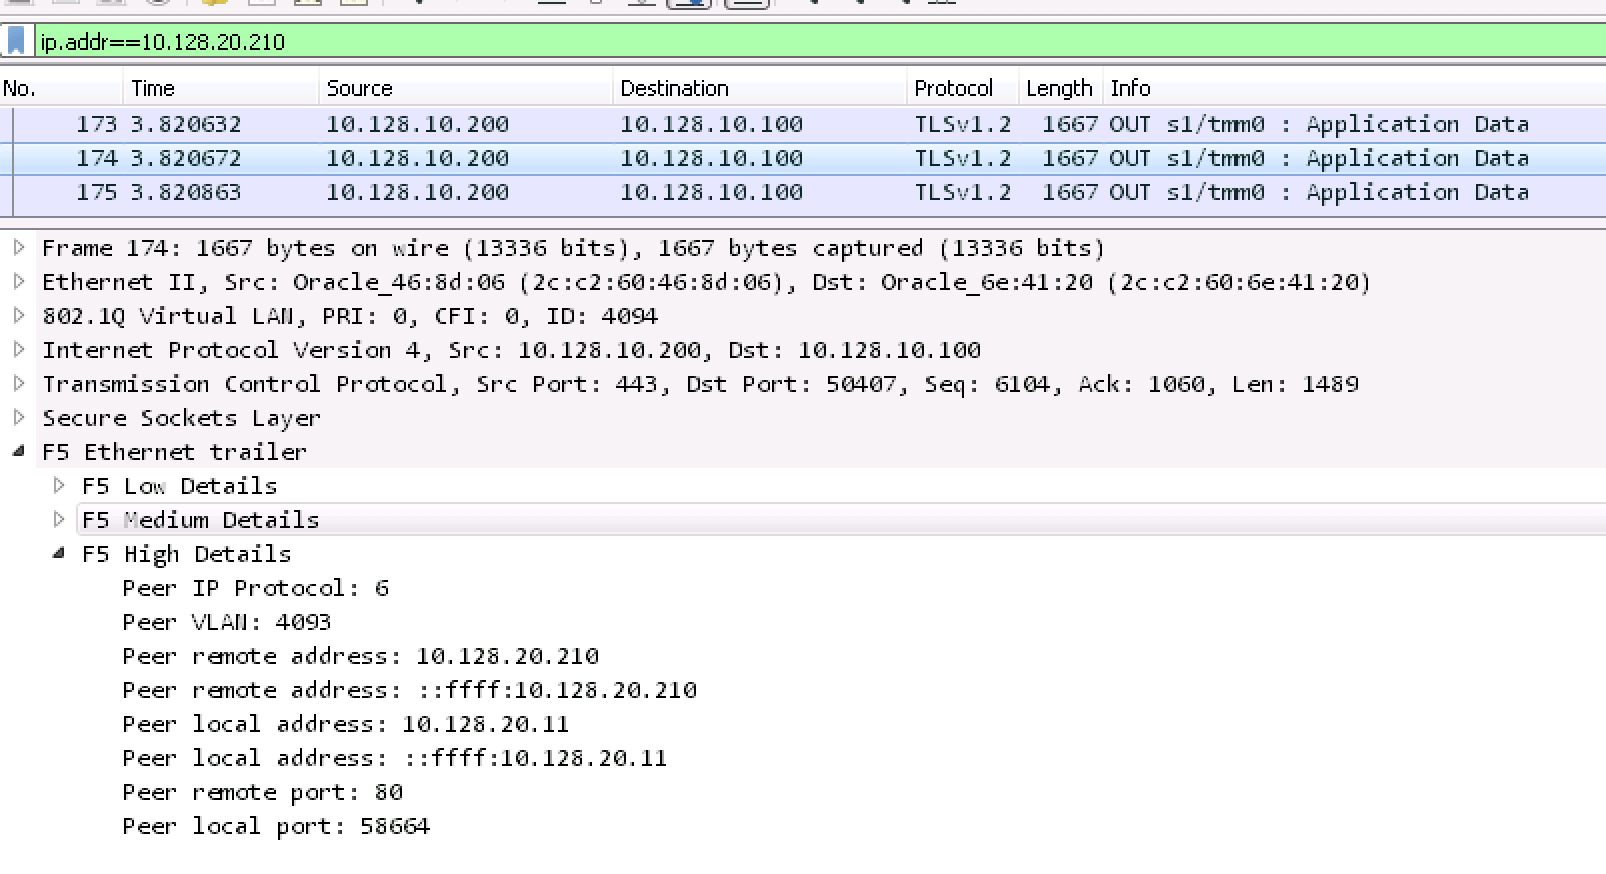
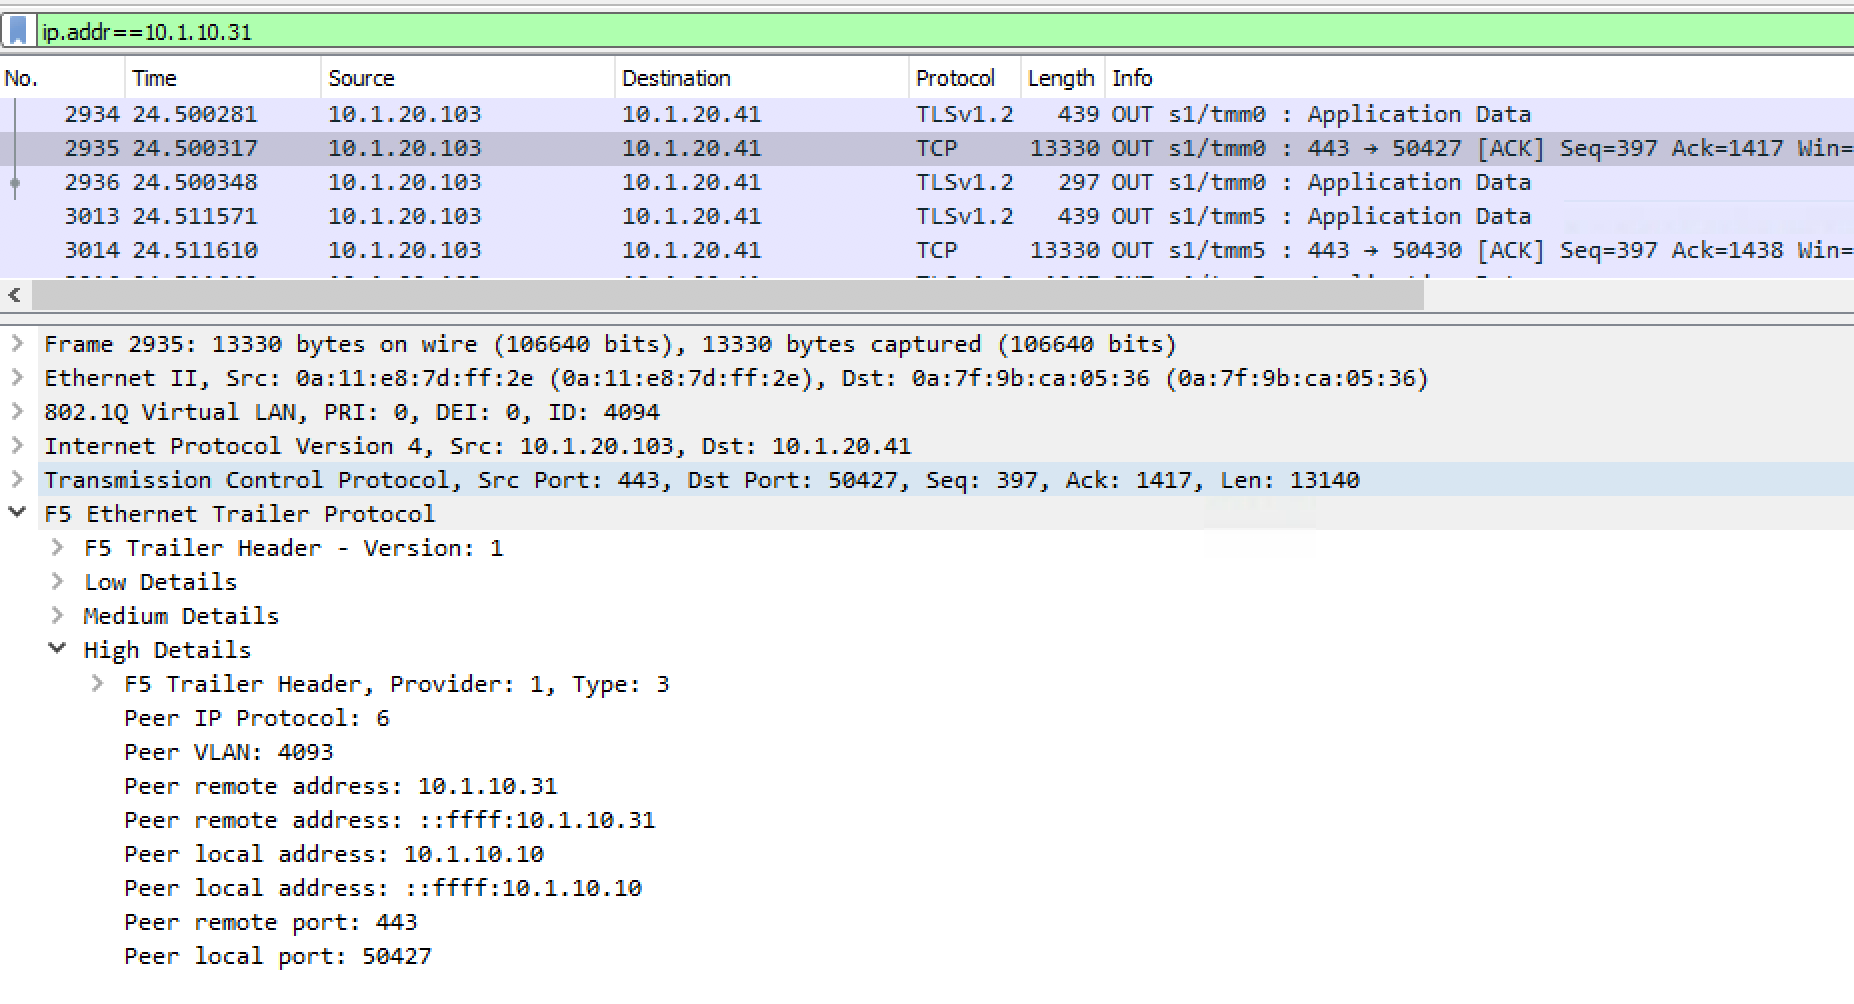
update for new blueprint

Changed region(s): [[0.0, 0.0, 1.0, 0.9577], [0.3113, 0.6796, 0.3425, 0.7105]]

diff --git a/class1/module1/module09.rst b/class1/module1/module09.rst
@@ -8,30 +8,30 @@ F5 High Details
 
 #. The F5 High Details contains a lot of valuable information.  In the example above we see that the Peer IP Protocol is 6 or TCP.
 
-#. The Peer VLAN is going to be the VLAN that the traffic enters the F5 from.  In the example this is VLAN 4093 which is the external VLAN.
+#. The Peer VLAN is going to be the VLAN that the traffic enters the F5 from.  In the example this is VLAN 4093 which is the internal VLAN.
 
-#. The Peer remote address for an Outbound packet will be the Application server IP address, if it were Inbound the address would be the Client Address.  The Peer Remote address will always be an address that is not on the BIG-IP directly, in this case 10.1.20.20. The second Peer remote address is the IPv6 version of the address.
+#. The Peer remote address for an Outbound packet will be the Application server IP address, if it were Inbound the address would be the Client Address.  The Peer Remote address will always be an address that is not on the BIG-IP directly, in this case 10.1.10.31. The second Peer remote address is the IPv6 version of the address.
 
-#. The Peer local address is the SNAT address for this particular Virtual Server, in this case 10.1.20.240.  Once again the IPv6 version is below that.
+#. The Peer local address is the SNAT address for this particular Virtual Server, in this case 10.1.10.10.  Once again the IPv6 version is below that.
 
-#. Next we see the Peer remote port.  The remote port is the port that the traffic is coming from on the remote side.  In this case the application server is responding from port 80.
+#. Next we see the Peer remote port.  The remote port is the port that the traffic is coming from on the remote side.  In this case the client is requesting to port 443.
 
-#. Next we have the Peer local port.  This is the port the F5 is talking with the remote side on.  In this case it is port 49925.  If this were a request coming from the client, the local port would be 443 as the Virtual Server is configured with port 443 and the remote port would be a port > 1024.
+#. Next we have the Peer local port.  This is the port the F5 is talking with the remote side on.  In this case it is port 50228.  If this were a request coming from the client, the local port would be 443 as the Virtual Server is configured with port 443 and the remote port would be a port > 1024.
 
 #. The F5 High Details provide great information on what pool member is selected on a particular conversation that you are tracking down.  This makes it possible to determine which server may be having issues in an application problem.
 
 High Details and Other Field Dissectors
 ~~~~~~~~~~~~~~~~~~~~~~~~~~~~~~~~~~~~~~~
 
-#. In order to see how the other field dissectors becomes useful, enter a display filter of 'ip.addr==10.1.20.240'.
+#. In order to see how the other field dissectors becomes useful, enter a display filter of 'ip.addr==10.1.10.31'.
 
-#. Notice that the Source and Destination fields in the results do not contain the ip address of 10.128.20.210 as shown in the image.  In the lab you won't see the IP 10.1.20.240 in the source or destination fields.
+#. Notice that the Source and Destination fields in the results do not contain the ip address of 10.1.10.31 as shown in the image.  In the lab you won't see the IP 10.1.10.31 in the source or destination fields.
 
    .. image:: /_static/disect-high.png
       :scale: 50 %
 
 #. Is the display filter broken?
 
-#. No it is not.  Notice in the F5 High Details that the Peer remote address is 10.128.20.210.  This is the pool member selected for the pool in the virtual server.  
+#. No it is not.  Notice in the F5 High Details that the Peer remote address is 10.1.10.31.  This is the pool member selected for the pool in the virtual server.  
 
 #. With the other field dissectors value turned on in Wireshark, you can set a display filter of the pool member you may be troubleshooting and see which virtual is being selected on the traffic.  Or you can set a display filter of the client and see all the traffic to the pool members even with a SNAT pool selected.

diff --git a/class1/module1/module03.rst b/class1/module1/module03.rst
@@ -3,11 +3,11 @@ F5 Specific tcpdump Switches
 
 This section is for informative value and nothing will be done in the lab environment.
 
-F5 has added some F5 specific switches to the tcpdump utility on the F5.  These switches give additional information on your packet captures.  These switches are places after the interface option in the command line as follows:
+F5 has added some F5 specific switches to the tcpdump utility on the F5.  These switches give additional information on your packet captures.  These switches are placed after the interface option in the command line as follows:
 
 #. :n gives low details
 
-    a. for example: **tcpdump -nni 0.0:n -s0 -w/var/tmp/capture.pcap**
+    a. for example: **tcpdump -nni 0.0:n -s0 -w /var/tmp/capture.pcap**
 
     b. This will give basic information such as whether the captured traffic is ingress or egress to the F5.  It will also give the TMM instance the traffic is on as well as the Chassis slot processing the traffic.  This option also lists the virtual server name that processes the traffic.
 
@@ -15,7 +15,7 @@ F5 has added some F5 specific switches to the tcpdump utility on the F5.  These 
 
 #. :nn gives medium details
 
-    a. for example: **tcpdump -nni 0.0:nn -s0 -w/var/tmp/capture.pcap**
+    a. for example: **tcpdump -nni 0.0:nn -s0 -w /var/tmp/capture.pcap**
 
     b. This option will give all the low detail information plus the following: 
 
@@ -32,7 +32,7 @@ F5 has added some F5 specific switches to the tcpdump utility on the F5.  These 
 
 #. :nnn gives high details
 
-    a. for example: **tcpdump -nni 0.0:nnn -s0 -w/var/tmp/capture.pcap**
+    a. for example: **tcpdump -nni 0.0:nnn -s0 -w /var/tmp/capture.pcap**
 
     b. This option will give all the low and medium details plus the following
 

diff --git a/class1/module1/module11.rst b/class1/module1/module11.rst
@@ -3,34 +3,26 @@ Decrypting SSL in Wireshark
 
 Now you need to have your pre-master key file and your capture moved to your local box.  To do this do the following:
 
-#. Open Terminal on the Ubuntu Jump Box.
+#. Open WinSCP on the Windows jumpbox and connect to Bigip01.
 
-#. Change directory to Documents by typing: 'cd Documents'.
+#. Change local directory to Documents.
 
-#. Run the following commands:
+#. Pull from the remote directory the session.pms and your pcap files.
 
-   .. code-block:: bash
-      :linenos:
-
-      sudo scp root@10.1.1.245:/var/tmp/session.pms ./
-      sudo scp root@10.1.1.245:/var/tmp/hackazon.pcap ./
-
-After each of these commands you will be prompted to accept the SSH keys.  Type yes to continue. Then you will be prompted for the F5 root password.  Type that in as well.
- 
 #. Now open Wireshark.  
 
 #. Once Wireshark is open go to Edit/Preferences.
 
-#. Expand on the left side, Protocols, then select SSL.
+#. Expand on the left side, Protocols, then select TLS.
 
    .. image:: /_static/premaster-session.png
       :height: 500px
 
 #. Browse to the pre-master session key file and click on save.
 
-#. Open in Wireshark the pcap file you pulled down from the F5 BIG-IP. 
+#. Open in Wireshark the hackazon-ssl.pcap file you pulled down from the F5 BIG-IP. 
 
-#. Right click on one of the SSL packets and select Follow, SSL Stream.
+#. Right click on one of the SSL packets and select Follow, TLS Stream.
 
    .. image:: /_static/follow-ssl-stream.png
       :height: 500px

diff --git a/class1/module1/module05.rst b/class1/module1/module05.rst
@@ -12,21 +12,19 @@ Let's take the information we have gathered so far and take a packet capture fro
    .. code-block:: bash
       :linenos:
 
-      tmsh list ltm virtual /Sample_04/A1/serviceMain
+      tmsh list ltm virtual /Sample_04/A1/serviceMain |grep destination
 
-#. Now take the destination address and compose a tcpdump command to track the traffic coming to this virtual server:
+#. Now take the destination IP address and compose a tcpdump command to track the traffic coming to this virtual server:
 
    .. code-block:: bash
       :linenos:
 
-      tcpdump -nni 0.0:nnn -s0 -w/var/tmp/hackazon.pcap host 10.1.20.103
+      tcpdump -nni 0.0:nnnp -s0 -w/var/tmp/hackazon.pcap host 10.1.20.103
 
 #. After starting the capture, start Chrome and click on the Hackazon bookmark.  Browse around the site following a couple links.  Next go to the address bar and type in: "https://hackazon.f5demo.com:8080".  Then stop the capture in the putty session by using 'Ctrl+c'.
 
 #. Open WinSCP on the Windows jumpbox.  Download the hackazon.pcap file to the local box.
 
-#. You may be prompted to save the SSH keys. Click yes.
-
 #. Now open Wireshark and open the hackazon.pcap file you just copied from the F5.
 
-#. If you run into issues copying the hackazon.pcap file to the jumpbox you can use the already created file in the Downloads folder hackazon2.pcap.
+#. If you run into issues copying the hackazon.pcap file to the jumpbox you can use the already created file in the My Documents folder hackazon2.pcap.

diff --git a/class1/module1/module06.rst b/class1/module1/module06.rst
@@ -16,7 +16,7 @@ We will start with what kind of unique information is gathered through the plugi
 
 #. In the capture above packet 53 shows the GET requests to the website.  In your capture it will be a different packet number but you can see in the Info area that it is a GET request.
 
-#. Right click on the GET request and go to protocol preferences, and then populate fields for other dissectors.  This makes it so when applying a display filter it applies to both the client and server sides of the F5 connection.  We will cover this in the F5 High Details section.  
+#. Right click on the GET request and go to protocol preferences, and then populate fields for other dissectors.  This option may already be set depending on the version of Wireshark you are running.  This makes it so when applying a display filter it applies to both the client and server sides of the F5 connection.  We will cover this in the F5 High Details section.  
 
    .. image:: /_static/dissectors.png
       :scale: 50 %

diff --git a/class1/module1/module07.rst b/class1/module1/module07.rst
@@ -16,6 +16,6 @@ F5 Low Details
 
 #. The low details also gives the Slot value (always be 1 for an appliance).  The TMM number in the image is 3.
 
-#. The most important value here is the VIP.  In this case it is the /Common/hackazon.f5demo.com_http_vs.  Notice this is the port 80 VIP for this particular destination IP.  The VIP is configured with a redirect to SSL.
+#. The most important value here is the VIP.  In this case it is `/Sample_04/A1/serviceMain-Redirect-`.  Notice this is the port 80 VIP for this particular destination IP.  The VIP is configured with a redirect to SSL.
 
 #. The next packet in the capture is a HTTP 302 redirect to the SSL vip.

diff --git a/class1/module1/module04.rst b/class1/module1/module04.rst
@@ -1,7 +1,7 @@
 Configure the F5 Wireshark Plugin
 =================================
 
-Wireshark version 3.2.0 is installed on the jumpbox.
+Wireshark version 3.2.1 is installed on the jumpbox.
 ~~~~~~~~~~~~~~~~~~~~~~~~~~~~~~~~~~~~~~~~~~~~~~~~~~~~
 
 Wireshark 3.0 and greater have the F5 ethtrailer plugin already installed.  You will have to update one setting in Wireshark to get it fully working:

diff --git a/class1/module1/module10.rst b/class1/module1/module10.rst
@@ -19,7 +19,7 @@ SSL Decrypt from Windows Client
 SSL Decrypt from Linux Client
 -----------------------------
 
-#. On the Ubuntu client open a terminal window and run the following commands:
+#. On an Ubuntu client open a terminal window and run the following commands:
 
    .. code-block:: bash
       :linenos:
